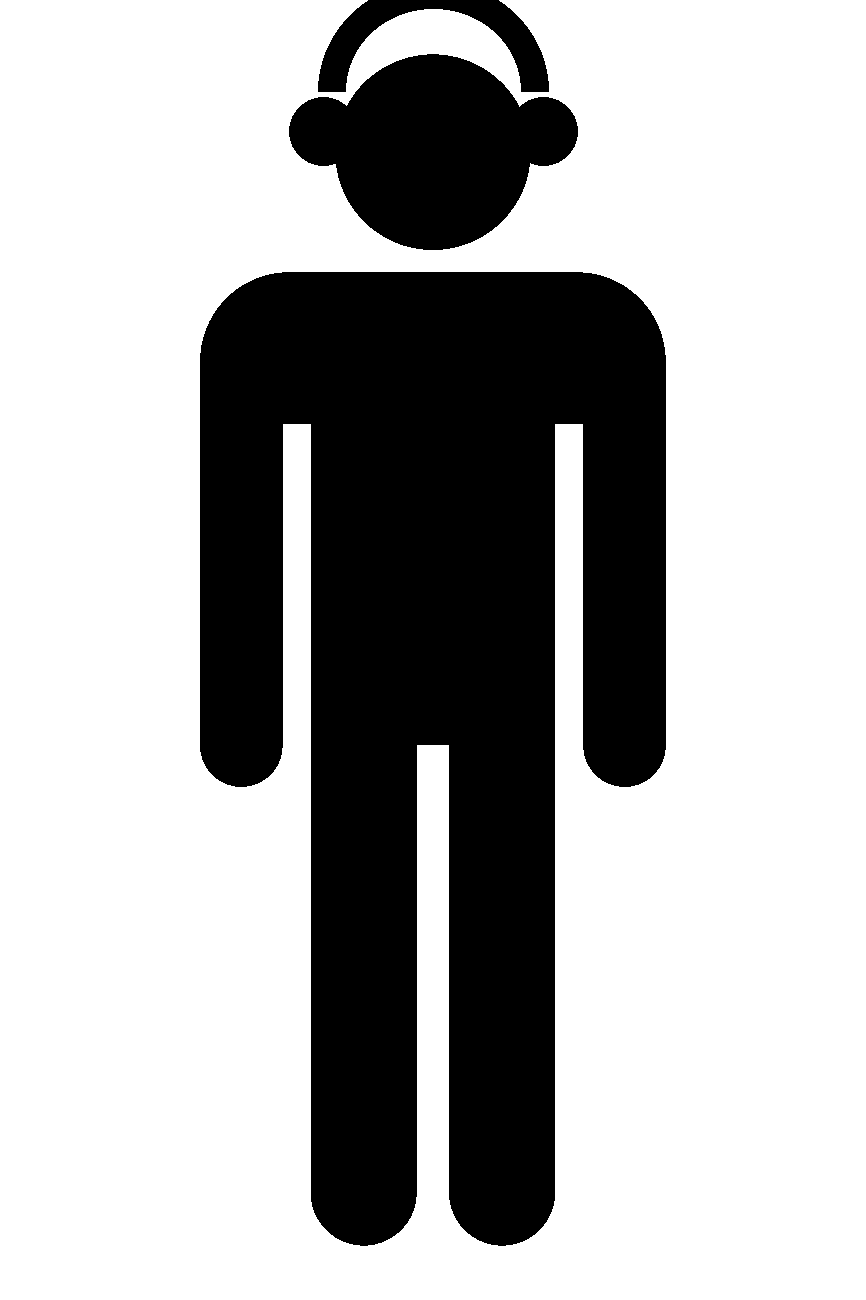
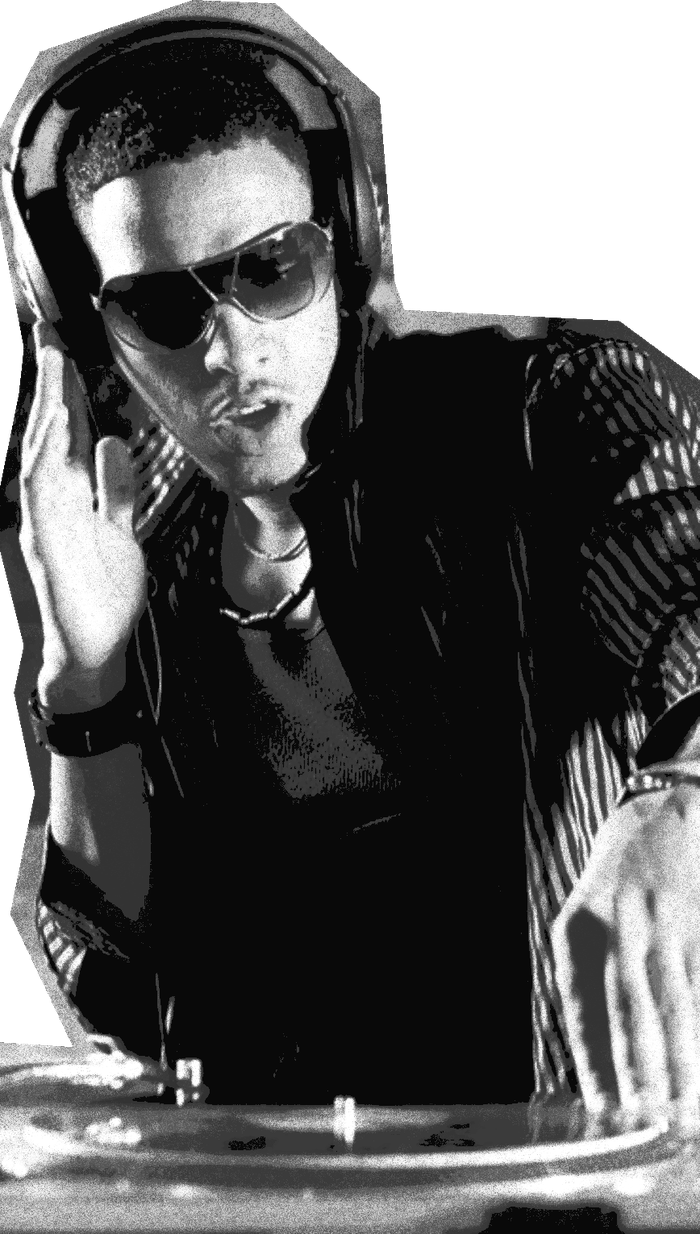
Swap in real cutout photos, fix hero width, apply layout adjustments
- Replaced the hand-made silhouette cutouts with the user's own
  photos (thresholded alpha to clean up residual background grain).
  Switched from CSS mask-image (dot-pattern recolor, which discarded
  all photo detail) to plain <img> so the real grain/contrast shows.
- Root cause of the cutout row wrapping to two lines: .kaos-hero was
  still nested inside .page-content's 880px max-width, far too narrow
  for 3 large angled figures with wide gaps. Broke the hero out to
  full viewport width (100vw negative-margin technique); the info
  grid below keeps a readable max-width, centered.
- Video background: now a centered 60vw x 60vh box instead of full
  bleed, so the site's own glitch background shows around the edges.
  Added an inset vignette + stronger scrim for readability without
  flattening the video into a uniform grey.
- Cutouts enlarged, gap widened, guy/girl each angled inward
  (rotate ±9deg) instead of sitting flat and centered.
- IG carousel centered.
- Audio player switched from horizontal to vertical (rotated volume
  slider, column layout).

diff --git a/src/styles.css b/src/styles.css
@@ -198,9 +198,10 @@ a { color: var(--red-3); }
   transform: translateY(-50%);
   z-index: 20;
   display: flex;
+  flex-direction: column;
   align-items: center;
-  gap: 10px;
-  padding: 10px 14px;
+  gap: 12px;
+  padding: 14px 10px;
   border-radius: 999px;
   background: rgba(20, 20, 20, 0.45);
   backdrop-filter: blur(18px) saturate(140%);
@@ -229,6 +230,7 @@ a { color: var(--red-3); }
   width: 70px;
   accent-color: var(--red-2);
   cursor: pointer;
+  transform: rotate(-90deg);
 }
 
 @media (max-width: 620px) {
@@ -810,30 +812,46 @@ a { color: var(--red-3); }
 
 .kaos-hero {
   position: relative;
+  left: 50%;
+  right: 50%;
+  margin-left: -50vw;
+  margin-right: -50vw;
+  width: 100vw;
   z-index: 1;
   padding-bottom: 40px;
 }
 
+.kaos-info-grid {
+  max-width: 900px;
+  margin-left: auto;
+  margin-right: auto;
+}
+
 .concept-bg {
   position: fixed;
-  inset: 0;
+  top: 50%;
+  left: 50%;
+  transform: translate(-50%, -50%);
+  width: 60vw;
+  height: 60vh;
   z-index: 0;
   pointer-events: none;
   overflow: hidden;
+  border-radius: var(--radius-lg);
 }
 
 .concept-bg video {
   width: 100%;
   height: 100%;
   object-fit: cover;
-  transform: scale(1.15);
   opacity: 0.9;
 }
 
 .concept-bg-scrim {
   position: absolute;
   inset: 0;
-  background: rgba(5, 5, 5, 0.18);
+  background: rgba(5, 5, 5, 0.32);
+  box-shadow: inset 0 0 min(15vw, 15vh) rgba(0, 0, 0, 0.75);
 }
 
 .concept-page.page-content {
@@ -864,7 +882,7 @@ a { color: var(--red-3); }
   display: flex;
   align-items: flex-end;
   justify-content: center;
-  gap: 28px;
+  gap: 80px;
   padding: 36px 0 0;
   flex-wrap: wrap;
 }
@@ -880,33 +898,42 @@ a { color: var(--red-3); }
   transition: transform 200ms var(--ease-out);
 }
 
+.cutout-guy { transform: rotate(-9deg); }
+.cutout-girl { transform: rotate(9deg); }
+
 .cutout-figure:hover,
 .cutout-figure:focus-visible {
   transform: scale(1.15);
   outline: none;
 }
 
+.cutout-guy:hover,
+.cutout-guy:focus-visible {
+  transform: rotate(-9deg) scale(1.15);
+}
+
+.cutout-girl:hover,
+.cutout-girl:focus-visible {
+  transform: rotate(9deg) scale(1.15);
+}
+
 .cutout-guy .cutout-figure-fill,
 .cutout-girl .cutout-figure-fill {
-  width: 190px;
-  height: 350px;
+  width: 240px;
+  height: 440px;
 }
 
 .cutout-dj .cutout-figure-fill {
-  width: 230px;
-  height: 430px;
+  width: 280px;
+  height: 520px;
 }
 
 .cutout-figure-fill {
   display: block;
-  -webkit-mask-size: contain;
-  -webkit-mask-repeat: no-repeat;
-  -webkit-mask-position: bottom center;
-  mask-size: contain;
-  mask-repeat: no-repeat;
-  mask-position: bottom center;
-  background-image: radial-gradient(circle, var(--red-2) 45%, transparent 46%);
-  background-size: 7px 7px;
+  width: 100%;
+  height: 100%;
+  object-fit: contain;
+  object-position: bottom center;
   animation: cutout-jitter 1s steps(4) infinite;
 }
 
@@ -1020,6 +1047,7 @@ a { color: var(--red-3); }
 
 .carousel-mock {
   display: flex;
+  justify-content: center;
   gap: 14px;
   flex-wrap: wrap;
 }

diff --git a/src/pages/Concept.tsx b/src/pages/Concept.tsx
@@ -20,10 +20,7 @@ export function Concept() {
         <div className="cutout-row">
           {figures.map((f) => (
             <button key={f.id} className={`cutout-figure cursor-target cutout-${f.id}`} aria-label={f.id}>
-              <span
-                className="cutout-figure-fill"
-                style={{ WebkitMaskImage: `url(${f.image})`, maskImage: `url(${f.image})` }}
-              />
+              <img className="cutout-figure-fill" src={f.image} alt="" />
             </button>
           ))}
         </div>
